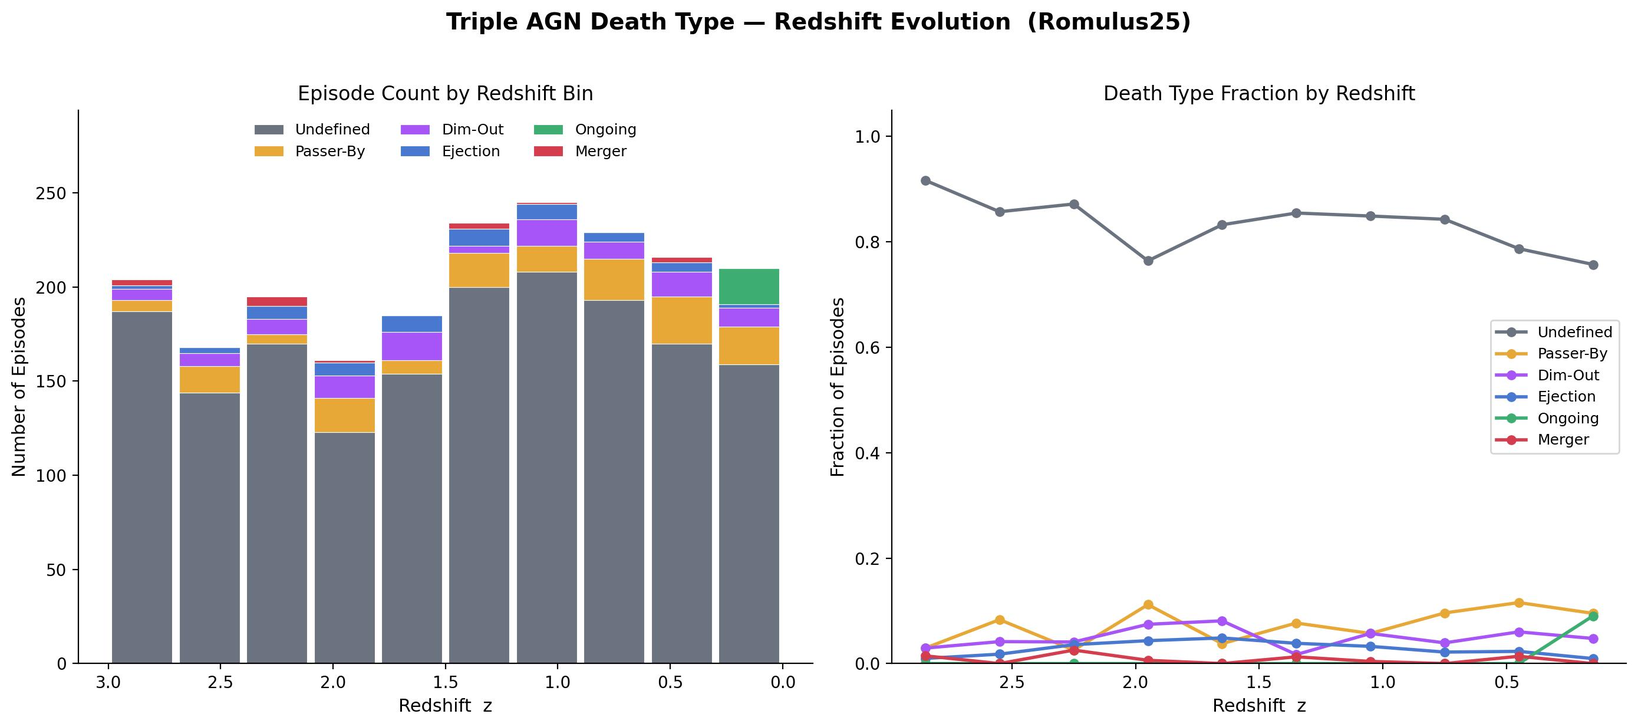
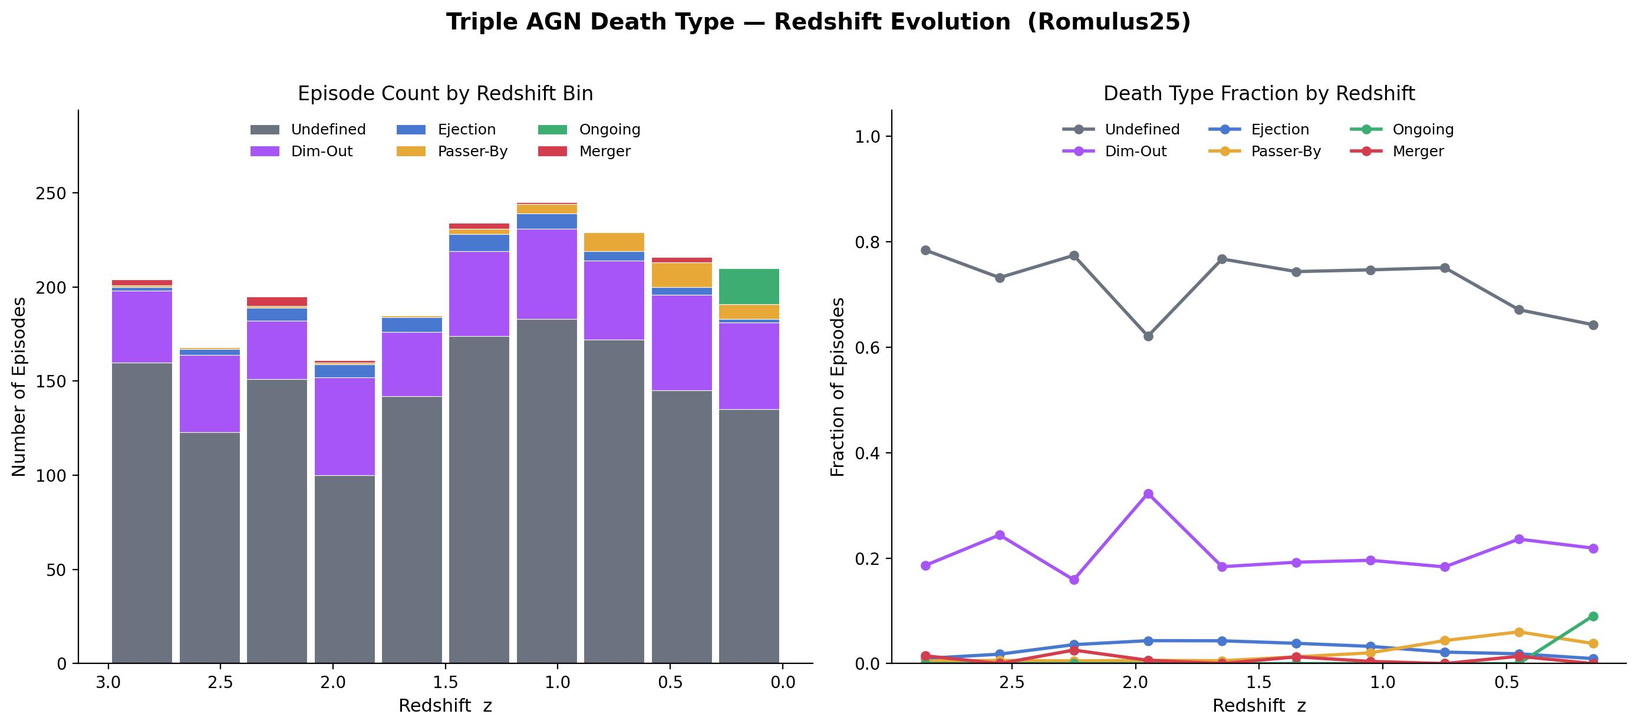
updates

diff --git a/main.tex b/main.tex
@@ -65,7 +65,7 @@ natbib=true
 \maketitle
 
 \begin{abstract}
-Hierarchical galaxy formation naturally predicts the existence of systems hosting multiple supermassive black holes (SMBHs), and when gas is available, such systems may manifest as multiple active galactic nuclei (AGN). While dual AGNs have been studied extensively in both observations and simulations, triple AGN systems remain relatively unexplored, despite their importance for further understanding things like SMBH dynamics and merger-driven accretion. Recent observational discoveries of nearby kpc-scale triple AGNs have highlighted the need for theoretical predictions that place these rare systems in a broader cosmological context. In this work, we investigate the properties of triple AGN systems in the Romulus25 cosmological hydrodynamical simulation. Romulus25 uniquely incorporates a physically motivated treatment of unresolved dynamical friction, enabling SMBHs to remain coupled to their host galaxies and to interact down to sub-kiloparsec scales. Building on previous analyses of dual AGNs in Romulus, we identify candidate triple AGN systems using AGN bolometric luminosity and spatial proximity criteria motivated by observations. We examine their redshift evolution, SMBH masses and luminosities, separations, host halos, lifetimes, and fates, test how the census depends on the luminosity threshold and search radius, and repeat the selection in projection with a cylinder of $30\,\mathrm{kpc}$ radius and $\pm 500\,\mathrm{km\,s^{-1}}$. Above $L_\mathrm{bol} = 10^{40}\,\mathrm{erg\,s^{-1}}$ we find 3,266 triple AGN system-snapshot instances from 1,397 unique systems between $z \approx 0.06$ and $z = 3$, with counts per snapshot rising by a factor of about three toward high redshift, driven mainly by the rising fraction of SMBHs that are accreting. Members typically lie $\sim 3\,\mathrm{kpc}$ apart, and the brightest member carries a median 88\% of the system luminosity. Most triple AGN episodes end because one member falls below the luminosity threshold while all three SMBHs remain together, usually through a drop to well below the threshold, so that only 5\% meet our Dim-Out criterion of a member falling just below it while the other two remain a dual AGN; fewer than 1\% end in a confirmed SMBH merger and 3\% in the ejection of a member from the $30\,\mathrm{kpc}$ neighbourhood. In projection, 82\% of selected triples are genuine three-dimensional triples and 89\% of genuine triples are recovered. Narrowing the velocity window increases contamination, whereas reducing the aperture radius to $20\,\mathrm{kpc}$ improves both purity and completeness. Radiative transfer of five simulated analogues of the triple merger candidate UGC\,2369S shows that dust absorbs between 24\% and 90\% of their starlight. By providing a systematic census of triple AGNs in a cosmological simulation, this study aims to establish a theoretical baseline for interpreting current observations and to guide future searches for multi-AGN systems.
+Hierarchical galaxy formation naturally predicts the existence of systems hosting multiple supermassive black holes (SMBHs), and when gas is available, such systems may manifest as multiple active galactic nuclei (AGN). While dual AGNs have been studied extensively in both observations and simulations, triple AGN systems remain relatively unexplored, despite their importance for further understanding things like SMBH dynamics and merger-driven accretion. Recent observational discoveries of nearby kpc-scale triple AGNs have highlighted the need for theoretical predictions that place these rare systems in a broader cosmological context. In this work, we investigate the properties of triple AGN systems in the Romulus25 cosmological hydrodynamical simulation. Romulus25 uniquely incorporates a physically motivated treatment of unresolved dynamical friction, enabling SMBHs to remain coupled to their host galaxies and to interact down to sub-kiloparsec scales. Building on previous analyses of dual AGNs in Romulus, we identify candidate triple AGN systems using AGN bolometric luminosity and spatial proximity criteria motivated by observations. We examine their redshift evolution, SMBH masses and luminosities, separations, host halos, lifetimes, and fates, test how the census depends on the luminosity threshold and search radius, and repeat the selection in projection with a cylinder of $30\,\mathrm{kpc}$ radius and $\pm 500\,\mathrm{km\,s^{-1}}$. Above $L_\mathrm{bol} = 10^{40}\,\mathrm{erg\,s^{-1}}$ we find 3,266 triple AGN system-snapshot instances from 1,397 unique systems between $z \approx 0.06$ and $z = 3$, with counts per snapshot rising by a factor of about three toward high redshift, driven mainly by the rising fraction of SMBHs that are accreting. Members typically lie $\sim 3\,\mathrm{kpc}$ apart, and the brightest member carries a median 88\% of the system luminosity. Most triple AGN episodes end because one member falls below the luminosity threshold while all three SMBHs remain together, and 21\% meet our Dim-Out criterion of a member that is still accreting above $10^{38}\,\mathrm{erg\,s^{-1}}$ while the other two remain a dual AGN; fewer than 1\% end in a confirmed SMBH merger and 3\% in the ejection of a member from the $30\,\mathrm{kpc}$ neighbourhood. In projection, 82\% of selected triples are genuine three-dimensional triples and 89\% of genuine triples are recovered. Narrowing the velocity window increases contamination, whereas reducing the aperture radius to $20\,\mathrm{kpc}$ improves both purity and completeness. Radiative transfer of five simulated analogues of the triple merger candidate UGC\,2369S shows that dust absorbs between 24\% and 90\% of their starlight. By providing a systematic census of triple AGNs in a cosmological simulation, this study aims to establish a theoretical baseline for interpreting current observations and to guide future searches for multi-AGN systems.
 
 \end{abstract}
 \vspace{1em} 
@@ -142,7 +142,7 @@ In this paper, we present the first systematic census of triple AGN systems in t
 
 For each identified system we characterise the SMBH masses, bolometric luminosities, pairwise separations, host halo masses, and system lifetimes of all three members. We classify the Host (most massive), Neighbour~1 (N1), and Neighbour~2 (N2) by decreasing SMBH mass. We examine how these properties evolve with redshift and depend on the choice of luminosity threshold and separation cut.
 
-The key findings can be summarised as follows. Triple AGN systems are a natural and recurring product of hierarchical galaxy assembly in Romulus25, with their number density rising steadily from $z = 0$ to $z \approx 3$, mirroring the global rise in AGN activity. They are physically compact, with median pairwise separations of 2.9, 3.2, and 3.8\,kpc for the Host--N1, Host--N2, and N1--N2 pairs respectively, considerably more compact than the currently confirmed observational sample, implying a large population inaccessible to existing surveys. The SMBH mass distribution is asymmetric. The median Host is $\sim 3$ and $\sim 6$ times more massive than N1 and N2 respectively, a contrast that grows to one to two orders of magnitude in halos above $10^{12}\,M_\odot$, while N1 and N2 are drawn from a similar near-seed-mass population. This demonstrates that triple AGN formation does not require (and may in some cases \textit{precede}) significant growth of the secondary and tertiary SMBHs. The majority (61\%) of unique triple AGN systems are single-snapshot detections, reflecting the transient character of low-luminosity triple activity, while the multi-snapshot population has a median span of $1.44\,\mathrm{Gyr}$ from first to last detection and a long tail extending to $\sim 11\,\mathrm{Gyr}$, although these systems are typically detected as triples in only about a third of the snapshots they span. Most triple AGN episodes end when one member falls below the luminosity threshold while all three SMBHs remain within $30\,\mathrm{kpc}$, usually by a drop to well below it; a Dim-Out, in which a member falls to just below the threshold while the other two remain a dual AGN, ends 5\% of episodes, a confirmed merger fewer than 1\%, and the ejection of a member only 3\%. In most systems a single nucleus dominates the light, carrying a median 88\% of the total. Selection in projection recovers 89\% of genuine triples with a purity of 82\%, and a $20\,\mathrm{kpc}$ aperture improves on both.
+The key findings can be summarised as follows. Triple AGN systems are a natural and recurring product of hierarchical galaxy assembly in Romulus25, with their number density rising steadily from $z = 0$ to $z \approx 3$, mirroring the global rise in AGN activity. They are physically compact, with median pairwise separations of 2.9, 3.2, and 3.8\,kpc for the Host--N1, Host--N2, and N1--N2 pairs respectively, considerably more compact than the currently confirmed observational sample, implying a large population inaccessible to existing surveys. The SMBH mass distribution is asymmetric. The median Host is $\sim 3$ and $\sim 6$ times more massive than N1 and N2 respectively, a contrast that grows to one to two orders of magnitude in halos above $10^{12}\,M_\odot$, while N1 and N2 are drawn from a similar near-seed-mass population. This demonstrates that triple AGN formation does not require (and may in some cases \textit{precede}) significant growth of the secondary and tertiary SMBHs. The majority (61\%) of unique triple AGN systems are single-snapshot detections, reflecting the transient character of low-luminosity triple activity, while the multi-snapshot population has a median span of $1.44\,\mathrm{Gyr}$ from first to last detection and a long tail extending to $\sim 11\,\mathrm{Gyr}$, although these systems are typically detected as triples in only about a third of the snapshots they span. Most triple AGN episodes end when one member falls below the luminosity threshold while all three SMBHs remain within $30\,\mathrm{kpc}$, and a Dim-Out, in which a member falls below the threshold but is still accreting above $10^{38}\,\mathrm{erg\,s^{-1}}$ while the other two remain a dual AGN, ends 21\% of episodes, a confirmed merger fewer than 1\%, and the ejection of a member only 3\%. In most systems a single nucleus dominates the light, carrying a median 88\% of the total. Selection in projection recovers 89\% of genuine triples with a purity of 82\%, and a $20\,\mathrm{kpc}$ aperture improves on both.
 
 The paper is organized as follows. Section~\ref{sec:methods} describes the Romulus25 simulation, our AGN selection criteria, the triple AGN identification algorithm, and the methodology used to compare the simulated population with observations. Section~\ref{sec:results} presents all results, including the redshift evolution of the triple AGN population (Sections~\ref{subsec:agn_population}--\ref{subsec:frequency}), pairwise separation distributions (Sections~\ref{subsec:separations}--\ref{subsec:sep_halo}), SMBH mass and luminosity properties (Sections~\ref{subsec:bhmass_halo}--\ref{subsec:ratios}), system lifetimes (Section~\ref{subsec:lifetimes}), a case study of one of the longest-lived systems in the simulation (Section~\ref{subsec:case_study}), system fates (Section~\ref{subsec:fates}), the luminosity-independent parent population (Section~\ref{subsec:parent_population}), the dominance of the brightest member (Section~\ref{subsec:brightest_share}), the selection of triple AGN in projection (Sections~\ref{subsec:projected_vs_physical}--\ref{subsec:selection_opt}), and dust attenuation in simulated analogues of UGC\,2369S (Section~\ref{subsec:dust}). Throughout, we adopt the Romulus25 cosmology: $\Omega_m = 0.309$, $\Omega_\Lambda = 0.691$, $H_0 = 67.8\,\mathrm{km\,s^{-1}\,Mpc^{-1}}$. All separations are quoted in physical kiloparsecs and all masses in solar units $M_\odot$.
 
@@ -653,14 +653,14 @@ These gas column density maps represent individual frames from longer time-serie
 \begin{figure}[H]
     \centering
     \includegraphics[width=\columnwidth]{plot_1.jpeg}
-    \caption{Terminal fate classification of all 2,047 triple AGN episodes, where an episode is a contiguous run of snapshots over which the same three SMBHs satisfy the triple AGN selection criteria, with gaps of two snapshots or fewer bridged. Fates are assigned at the first usable snapshot after the episode, in the order Ongoing (the episode reaches the final catalogued snapshot), Merger (a member has vanished, having been within $0.7\,\mathrm{kpc}$ of another member), Dim-Out (two members remain a dual AGN while the third has dropped to just below the threshold, $10^{39.7} \leq L_\mathrm{bol} < 10^{40}\,\mathrm{erg\,s^{-1}}$), Passer-By (the same two SMBHs are a dual AGN immediately before and after the episode), Ejection (all three SMBHs still exist but a member has left the $30\,\mathrm{kpc}$ configuration), and Undefined (all remaining episodes). Undefined accounts for 83.4\% of episodes, Passer-By for 7.3\%, Dim-Out for 4.8\%, Ejection for 2.8\%, Ongoing for 0.9\%, and Merger for 0.8\%.}
+    \caption{Terminal fate classification of all 2,047 triple AGN episodes, where an episode is a contiguous run of snapshots over which the same three SMBHs satisfy the triple AGN selection criteria, with gaps of two snapshots or fewer bridged. Fates are assigned at the first usable snapshot after the episode, in the order Ongoing (the episode reaches the final catalogued snapshot), Merger (a member has vanished, having been within $0.7\,\mathrm{kpc}$ of another member), Dim-Out (two members remain a dual AGN while the third has dropped below the threshold but is still accreting, $10^{38} \leq L_\mathrm{bol} < 10^{40}\,\mathrm{erg\,s^{-1}}$), Passer-By (the same two SMBHs are a dual AGN immediately before and after the episode), Ejection (all three SMBHs still exist but a member has left the $30\,\mathrm{kpc}$ configuration), and Undefined (all remaining episodes). Undefined accounts for 72.5\% of episodes, Dim-Out for 20.9\%, Ejection for 2.7\%, Passer-By for 2.1\%, Ongoing for 0.9\%, and Merger for 0.8\%.}
     \label{fig:fates}
 \end{figure}
 
 \begin{figure*}
     \centering
     \includegraphics[width=\textwidth]{plot_rs.jpeg}
-    \caption{Redshift evolution of triple AGN episode fates. \textit{Left:} Number of episodes in each of ten redshift bins spanning $z = 0$ to $z = 3$, stacked and coloured by terminal fate as classified in Section~\ref{subsec:fates}. \textit{Right:} The same data as the fraction of episodes in each bin. Undefined dominates at all redshifts (76--92\%). Passer-By (3--12\%), Dim-Out (2--8\%), Ejection (1--5\%), and Merger (0--3\%) show no clear redshift trend. The rise in the Ongoing fraction in the lowest-redshift bin is an artefact of the catalogue ending at $z \approx 0.06$.}
+    \caption{Redshift evolution of triple AGN episode fates. \textit{Left:} Number of episodes in each of ten redshift bins spanning $z = 0$ to $z = 3$, stacked and coloured by terminal fate as classified in Section~\ref{subsec:fates}. \textit{Right:} The same data as the fraction of episodes in each bin. Undefined dominates at all redshifts (62--78\%), followed by Dim-Out (16--32\%). Neither, nor Ejection (1--4\%), Passer-By (0.5--6\%), or Merger (0--3\%), shows a clear redshift trend. The rise in the Ongoing fraction in the lowest-redshift bin is an artefact of the catalogue ending at $z \approx 0.06$.}
     \label{fig:fates_z}
 \end{figure*}
 
@@ -668,20 +668,20 @@ The lifetime analysis presented in Section~\ref{subsec:lifetimes} characterised 
 
 Because a single physical configuration of three SMBHs may cease to qualify and later qualify again, the total number of episodes (2,047) exceeds the number of unique triple AGN systems identified in Section~\ref{subsec:lifetimes} (1,397). The difference of 650 episodes represents re-entry events in which the same three SMBHs failed the triple AGN selection criteria for at least three consecutive snapshots before qualifying again. Each episode carries its own terminal fate and is classified independently.
 
-For each episode we determine its terminal fate at the first usable snapshot following its final detection, applying the following classification in priority order. Luminosities are taken from an AGN catalogue with a floor of $10^{39.7}\,\mathrm{erg\,s^{-1}}$, or computed from the accretion rate in the \textsc{Tangos} database with the same floor where that catalogue is unavailable. Three-dimensional separations are taken from the projected master catalogues of Section~\ref{subsec:projected_selection}, pooled over the three viewing axes.
+For each episode we determine its terminal fate at the first usable snapshot following its final detection, applying the following classification in priority order. Luminosities are taken from an AGN catalogue with a floor of $10^{38}\,\mathrm{erg\,s^{-1}}$, or computed from the accretion rate in the \textsc{Tangos} database with the same floor where that catalogue is unavailable. Three-dimensional separations are taken from the projected master catalogues of Section~\ref{subsec:projected_selection}, pooled over the three viewing axes.
 \begin{enumerate}
     \item \textbf{Ongoing:} the episode is still active at the final catalogued snapshot, so that its fate lies beyond the redshift range probed by this study.
     \item \textbf{Merger:} one of the three SMBHs is absent from the black hole catalogue at the following snapshot, and at the final snapshot of the episode it lay within $0.7\,\mathrm{kpc}$ of another member, the separation below which Romulus25 merges SMBHs (Section~\ref{subsubsec:dynamics}). In Romulus25 a merged SMBH disappears permanently, and none of the vanished SMBHs reappears in any later snapshot.
-    \item \textbf{Dim-Out:} a member drops just below the detection threshold while the other two remain an active pair. Two conditions must both hold at the following snapshot. First, two of the three SMBHs form a dual AGN in the dual catalogue of Section~\ref{subsec:derived}, that is, they are linked within $30\,\mathrm{kpc}$ with no further AGN attached. Second, the third SMBH is still accreting but below the triple threshold, with $10^{39.7} \leq L_\mathrm{bol} < 10^{40}\,\mathrm{erg\,s^{-1}}$.
+    \item \textbf{Dim-Out:} a member drops below the detection threshold while the other two remain an active pair. Two conditions must both hold at the following snapshot. First, two of the three SMBHs form a dual AGN in the dual catalogue of Section~\ref{subsec:derived}, that is, they are linked within $30\,\mathrm{kpc}$ with no further AGN attached. Second, the third SMBH is below the triple threshold but still accreting, with $10^{38} \leq L_\mathrm{bol} < 10^{40}\,\mathrm{erg\,s^{-1}}$, so that it remains in the AGN catalogue with a floor of $10^{38}\,\mathrm{erg\,s^{-1}}$.
     \item \textbf{Passer-By:} the same two SMBHs were an active dual AGN in the snapshot immediately preceding the episode and remain an active dual in the snapshot immediately following it, so that the dual outlasted the triple.
     \item \textbf{Ejection:} all three SMBHs still exist at the following snapshot, but a member has left the system: no member lies within $30\,\mathrm{kpc}$ of both others, so the configuration required by the triple selection is broken.
     \item \textbf{Undefined:} all remaining episodes.
 \end{enumerate}
 A residual Unknown category is reserved for cases in which the black hole catalogue for the following snapshot is unavailable; no episodes in our census fell into this category.
 
-Figure~\ref{fig:fates} shows the resulting distribution of terminal fates. Undefined is by far the most common, ending 1,708 of the 2,047 episodes (83.4\%). Passer-By accounts for 149 episodes (7.3\%), Dim-Out for 98 (4.8\%), occurring at least once in 93 of the 1,397 unique systems, and Ejection for 57 (2.8\%). The rarest fates are Ongoing, with 19 episodes (0.9\%), and Merger, with 16 (0.8\%). In 53 of the 57 Ejections, two members remain within $30\,\mathrm{kpc}$ of each other while the third has left, and in the remaining 4 all three members have separated. The median luminosity of the dimmed member in Dim-Out episodes is $7.3 \times 10^{39}\,\mathrm{erg\,s^{-1}}$, and the member that dims out is almost always one of the companions (Figure~\ref{fig:merger_roles}): Neighbour~2 in 65 episodes (66\%), Neighbour~1 in 31 (32\%), and the Host in only 2.
+Figure~\ref{fig:fates} shows the resulting distribution of terminal fates. Undefined is the most common, ending 1,485 of the 2,047 episodes (72.5\%), followed by Dim-Out, with 428 (20.9\%), occurring at least once in 331 of the 1,397 unique systems (24\%). Ejection and Passer-By account for 55 (2.7\%) and 44 (2.1\%) episodes, and the rarest fates are Ongoing, with 19 (0.9\%), and Merger, with 16 (0.8\%). In 51 of the 55 Ejections, two members remain within $30\,\mathrm{kpc}$ of each other while the third has left, and in the remaining 4 all three members have separated. In Dim-Out episodes the dimmed member has a median luminosity of $1.8 \times 10^{39}\,\mathrm{erg\,s^{-1}}$ at the following snapshot, roughly a factor of five below the threshold, and it is almost always one of the companions (Figure~\ref{fig:merger_roles}): Neighbour~2 in 311 episodes (73\%), Neighbour~1 in 102 (24\%), and the Host in only 15 (4\%).
 
-Table~\ref{tab:end_states} divides the Undefined class according to the state of the three SMBHs at the following snapshot. In 1,208 of the 1,708 Undefined episodes (71\%), the three SMBHs are still together but at least one member has fallen below the threshold without meeting the Dim-Out criteria, in most cases because it has dropped below $10^{39.7}\,\mathrm{erg\,s^{-1}}$ rather than to just below the threshold; a typical member that switches off falls by two orders of magnitude between snapshots. In a further 384 episodes (22\%), all three members remain above the threshold and in the same configuration, but an additional AGN lies within $30\,\mathrm{kpc}$ of at least one member, so that the system no longer has exactly two AGN neighbours. In 110 episodes (6\%), one member has vanished from the black hole catalogue, but it lay more than $0.7\,\mathrm{kpc}$ from the other members at the final snapshot of the episode. These SMBHs have merged with some black hole between snapshots, but the merger with another member of the triple cannot be confirmed. At the final snapshot they lie a median of $1.4\,\mathrm{kpc}$ from the nearest member, with 76\% within $2\,\mathrm{kpc}$, so many are likely to have merged with a member of the triple within the $\sim 143\,\mathrm{Myr}$ before the following snapshot. The six remaining episodes cannot be measured. Over all episodes, a member falls below the threshold while the SMBHs remain together in 1,444 cases (70.5\%), including 98 Dim-Outs and 138 Passer-By episodes, whereas the departure of a member accounts for only 65 (3.2\%), the 57 Ejections and 8 Passer-By episodes. The state is measured only at the following snapshot, a median of 143\,Myr later, so excursions between snapshots are not captured.
+Table~\ref{tab:end_states} divides the Undefined class according to the state of the three SMBHs at the following snapshot. In 985 of the 1,485 Undefined episodes (66\%), the three SMBHs are still together but at least one member has fallen below the threshold without meeting the Dim-Out criteria. In 261 of these, the member has dropped below $10^{38}\,\mathrm{erg\,s^{-1}}$; in the other 724, the remaining two members do not form a dual AGN on their own, because a further AGN is attached to them (440 episodes) or because a second member has also fallen below the threshold (284). In a further 384 episodes (26\%), all three members remain above the threshold and in the same configuration, but an additional AGN lies within $30\,\mathrm{kpc}$ of at least one member, so that the system no longer has exactly two AGN neighbours. In 110 episodes (7\%), one member has vanished from the black hole catalogue, but it lay more than $0.7\,\mathrm{kpc}$ from the other members at the final snapshot of the episode. These SMBHs have merged with some black hole between snapshots, but the merger with another member of the triple cannot be confirmed. At the final snapshot they lie a median of $1.4\,\mathrm{kpc}$ from the nearest member, with 76\% within $2\,\mathrm{kpc}$, so many are likely to have merged with a member of the triple within the $\sim 143\,\mathrm{Myr}$ before the following snapshot. The six remaining episodes cannot be measured. Over all episodes, a member falls below the threshold while the SMBHs remain together in 1,444 cases (70.5\%), of which 426 are Dim-Outs, 985 Undefined, and 33 Passer-By episodes, whereas the departure of a member accounts for only 65 (3.2\%), the 55 Ejections, 8 Passer-By episodes, and 2 Dim-Outs in which the dimmed member had also moved beyond $30\,\mathrm{kpc}$. The state is measured only at the following snapshot, a median of 143\,Myr later, so excursions between snapshots are not captured.
 
 \begin{table}
     \centering
@@ -691,14 +691,14 @@ Table~\ref{tab:end_states} divides the Undefined class according to the state of
         \hline
         Fate & $N$ & \% \\
         \hline
-        Undefined & 1,708 & 83.4 \\
-        \quad member below threshold, not Dim-Out & 1,208 & 59.0 \\
+        Undefined & 1,485 & 72.5 \\
+        \quad member below threshold, not Dim-Out & 985 & 48.1 \\
         \quad further AGN within $30\,\mathrm{kpc}$ & 384 & 18.8 \\
         \quad member vanished beyond $0.7\,\mathrm{kpc}$ & 110 & 5.4 \\
         \quad not measurable & 6 & 0.3 \\
-        Passer-By & 149 & 7.3 \\
-        Dim-Out & 98 & 4.8 \\
-        Ejection & 57 & 2.8 \\
+        Dim-Out & 428 & 20.9 \\
+        Ejection & 55 & 2.7 \\
+        Passer-By & 44 & 2.1 \\
         Ongoing & 19 & 0.9 \\
         Merger & 16 & 0.8 \\
         \hline
@@ -707,12 +707,12 @@ Table~\ref{tab:end_states} divides the Undefined class according to the state of
 
 Confirmed SMBH--SMBH mergers end only 0.8\% of episodes, and even counting all 113 SMBHs that vanished while lying further from the other members (110 Undefined and 3 Passer-By episodes), mergers would end 6.3\% of episodes. These fractions are not directly comparable to the $\sim 70\%$ of SMBH pairs in dual systems found to eventually merge by \citet{Saeedzadeh2024}. Our figures count mergers at the snapshot immediately following an episode at a threshold of $10^{40}\,\mathrm{erg\,s^{-1}}$, whereas theirs follows pairs at $10^{43}\,\mathrm{erg\,s^{-1}}$ through to coalescence. Since most episodes end with all three SMBHs still in close proximity, the low merger fraction indicates that episodes usually end before any coalescence, and following the SMBHs beyond the end of each episode would be required to determine how many eventually merge. We also note that Romulus25 merges SMBHs at separations of $0.7\,\mathrm{kpc}$, so these simulations cannot address the three-body hardening of bound binaries at parsec scales discussed in Section~\ref{subsec:triple_theory}. Among the 16 Merger episodes, the SMBH that disappears is the Host in 3, Neighbour~1 in 6, and Neighbour~2 in 7 (Figure~\ref{fig:merger_roles}, left), too few to establish which member is preferentially absorbed.
 
-Figure~\ref{fig:fates_z} examines whether the terminal fate of a triple AGN episode depends on redshift. The left panel shows the number of episodes of each fate in ten redshift bins spanning $z = 0$ to $z = 3$, while the right panel shows the same information as the fraction of episodes within each bin. Undefined is the dominant fate at every redshift, accounting for 76--92\% of episodes. The Passer-By fraction lies between 3\% and 12\%, the Dim-Out fraction between 2\% and 8\%, the Ejection fraction between 1\% and 5\%, and the Merger fraction below 3\% in every bin, none with a clear redshift trend. The Ongoing fraction is negligible across most of the redshift range but reaches 9\% in the lowest-redshift bin. This is an artefact of the catalogue ending at $z \approx 0.06$: episodes in this bin have the least opportunity to be followed to a terminal fate, and their prevalence should not be interpreted as evidence that low-redshift triple AGN are intrinsically more stable.
+Figure~\ref{fig:fates_z} examines whether the terminal fate of a triple AGN episode depends on redshift. The left panel shows the number of episodes of each fate in ten redshift bins spanning $z = 0$ to $z = 3$, while the right panel shows the same information as the fraction of episodes within each bin. Undefined is the dominant fate at every redshift, accounting for 62--78\% of episodes, followed by Dim-Out at 16--32\%. The Ejection fraction lies between 1\% and 4\%, the Passer-By fraction between 0.5\% and 6\%, and the Merger fraction below 3\% in every bin, none with a clear redshift trend. The Ongoing fraction is negligible across most of the redshift range but reaches 9\% in the lowest-redshift bin. This is an artefact of the catalogue ending at $z \approx 0.06$: episodes in this bin have the least opportunity to be followed to a terminal fate, and their prevalence should not be interpreted as evidence that low-redshift triple AGN are intrinsically more stable.
 
 \begin{figure*}
     \centering
     \includegraphics[width=0.85\textwidth]{plot12.jpeg}
-    \caption{Membership role of the SMBH responsible for ending the episode. \textit{Left:} The SMBH that disappears in each Merger episode ($N = 16$): Host (3), Neighbour~1 (6), and Neighbour~2 (7). \textit{Right:} The member that dims out in each Dim-Out episode ($N = 98$): Host (2), Neighbour~1 (31), and Neighbour~2 (65). Roles are those at the final snapshot of the episode.}
+    \caption{Membership role of the SMBH responsible for ending the episode. \textit{Left:} The SMBH that disappears in each Merger episode ($N = 16$): Host (3), Neighbour~1 (6), and Neighbour~2 (7). \textit{Right:} The member that dims out in each Dim-Out episode ($N = 428$): Host (15), Neighbour~1 (102), and Neighbour~2 (311). Roles are those at the final snapshot of the episode.}
     \label{fig:merger_roles}
 \end{figure*}
 
@@ -1043,10 +1043,10 @@ out of the triple AGN classification.
 
 Of the 2,047 triple AGN episodes in the census, 71\% end with at least
 one member below the luminosity threshold while the three SMBHs remain
-together, and 19\% end when a further AGN joins the system. Only 5\%
-are Dim-Outs, in which a member falls to just below the threshold
-while the other two remain a dual AGN; most members that switch off
-drop to well below the threshold. Fewer than 1\%
+together, and 19\% end when a further AGN joins the system. In 21\%
+the episode is a Dim-Out, in which a member falls below the threshold
+but is still accreting above $10^{38}\,\mathrm{erg\,s^{-1}}$ while the
+other two remain a dual AGN. Fewer than 1\%
 end in a confirmed SMBH merger, and only 3\% with a member ejected
 from the $30\,\mathrm{kpc}$ neighbourhood. The end of a triple AGN episode
 therefore usually reflects a change in the accretion state of its
